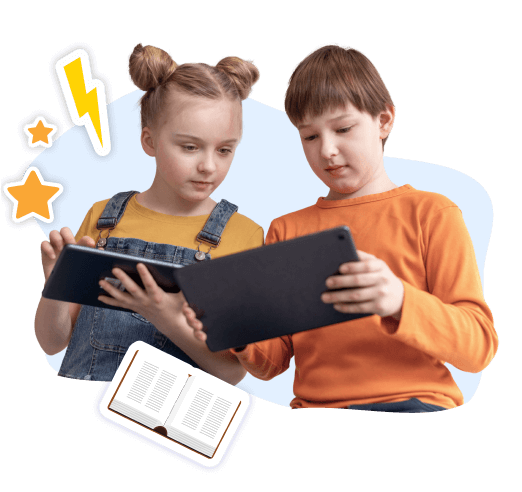
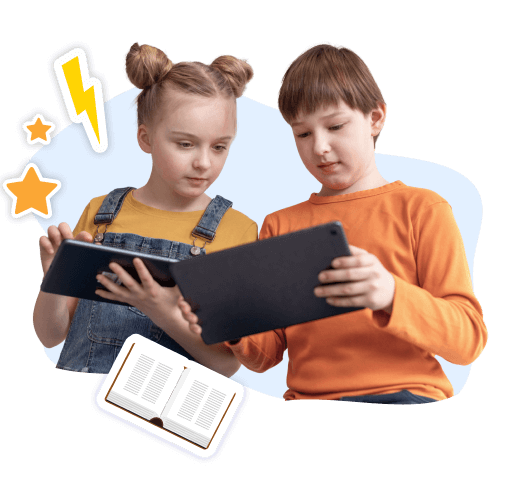
change img backg. to svg

diff --git a/src/components/AboutDetail/AboutDetail.module.scss b/src/components/AboutDetail/AboutDetail.module.scss
@@ -3,15 +3,16 @@
 
 .section {
   @include breakpoint(tablet) {
-    background: url('../../../public/images/aboutDet_plane.png'),
-      url('../../../public/images/aboutDet_line.png');
+    background: url('../../../public/images/aboutDet_plane.svg'),
+      url('../../../public/images/aboutDet_line.svg');
     background-repeat: no-repeat;
     background-size: 298px 98px, 262px 1159px;
-    background-position: right top, 54% 59%;
+    background-position: calc(100% + 30px) 0, 54% 59%;
   }
 
   @include breakpoint(desktop) {
     background-size: 589px 194px, 401px 1773px;
+    background-position: calc(100% + 30px) 0, 51% 51%;
   }
 }
 
@@ -78,8 +79,4 @@
 
 .title {
   text-align: left;
-}
-
-.text{
-  color: $light-black;
 }

diff --git a/src/components/About/About.module.scss b/src/components/About/About.module.scss
@@ -5,7 +5,8 @@
   background-color: #e3f0ff;
 
   background-image: url('~/public/images/about-wave_m.svg');
-  background-position: center bottom;
+  background-position: center calc(100% + 4px);
+  // background-position: center bottom;
   background-size: getBreakpoint(mobile) auto;
   background-repeat: repeat-x;
 
@@ -49,10 +50,6 @@
     margin-bottom: 0;
     min-width: 516px;
   }
-}
-
-.text {
-  color: $light-black;
 }
 
 .about__row {
